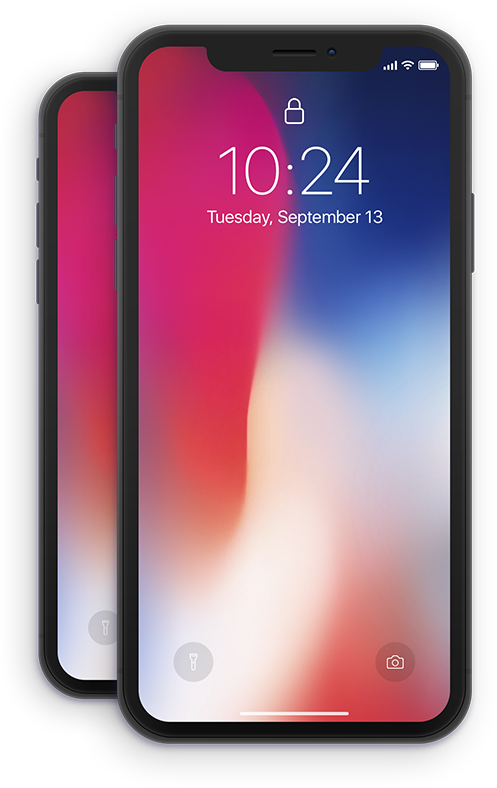
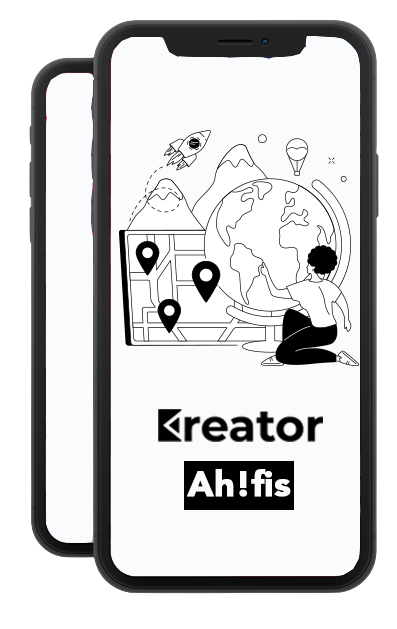
Photos&Content

diff --git a/index.html b/index.html
@@ -81,7 +81,7 @@
                     <div class="card features">
                         <div class="card-body">
                             <div class="media">
-                                <span class="ti-face-smile gradient-fill ti-3x mr-3"></span>
+                                <span class="ti-package gradient-fill ti-3x mr-3"></span>
                                 <div class="media-body">
                                     <h4 class="card-title">Services</h4>
                                     <p class="card-text">Create your services and share them directly to your prospects close deals in minutes. </p>
@@ -94,7 +94,7 @@
                     <div class="card features">
                         <div class="card-body">
                             <div class="media">
-                                <span class="ti-settings gradient-fill ti-3x mr-3"></span>
+                                <span class="ti-comments gradient-fill ti-3x mr-3"></span>
                                 <div class="media-body">
                                     <h4 class="card-title">Collaborations</h4>
                                     <p class="card-text">Collaborate with co-kreators to increase your service spectrum and build a brand legacy.</p>
@@ -168,16 +168,15 @@
             <div class="tab-content">
                 <div class="tab-pane fade show active" id="communication">
                     <div class="d-flex flex-column flex-lg-row">
-                        <img src="images/graphic.png" alt="graphic" class="img-fluid rounded align-self-start mr-lg-5 mb-5 mb-lg-0">
+                        <img src="images/ahfis_page4.png" alt="graphic" class="img-fluid rounded align-self-start mr-lg-5 mb-5 mb-lg-0">
                         <div>
 
-                            <h2>Communicate with ease</h2>
-                            <p class="lead">Uniquely underwhelm premium outsourcing with proactive leadership skills. </p>
-                            <p>Lorem ipsum dolor sit amet, consectetur adipiscing elit. Integer rutrum, urna eu pellentesque pretium, nisi nisi fermentum enim, et sagittis dolor nulla vel sapien. Vestibulum sit amet mattis ante. Ut placerat dui eu nulla
-                                congue tincidunt ac a nibh. Mauris accumsan pulvinar lorem placerat volutpat. Praesent quis facilisis elit. Sed condimentum neque quis ex porttitor,
+                            <h2>Own your Ah!fis</h2>
+                            <p class="lead">A new digital home for your freelance team.</p>
+                            <p>Quoting multiple freelancers, "An office is not required for freelancers, but a virtual office which can manage teams, contracts, deals is a must". We worked on this statement and took it to next level, Freelancers now can create thier own brand and they don't even require other brands to promote themselves. And we proudly call it Ah!fis, 
+                                
                             </p>
-                            <p> malesuada faucibus augue aliquet. Sed elit est, eleifend sed dapibus a, semper a eros. Vestibulum blandit vulputate pharetra. Phasellus lobortis leo a nisl euismod, eu faucibus justo sollicitudin. Mauris consectetur, tortor
-                                sed tempor malesuada, sem nunc porta augue, in dictum arcu tortor id turpis. Proin aliquet vulputate aliquam.
+                            <p>Now you can create your own Ah!fis and unlock the impossible. 
                             </p>
                         </div>
                     </div>
@@ -185,29 +184,26 @@
                 <div class="tab-pane fade" id="schedule">
                     <div class="d-flex flex-column flex-lg-row">
                         <div>
-                            <h2>Scheduling when you want</h2>
-                            <p class="lead">Uniquely underwhelm premium outsourcing with proactive leadership skills. </p>
-                            <p>Lorem ipsum dolor sit amet, consectetur adipiscing elit. Integer rutrum, urna eu pellentesque pretium, nisi nisi fermentum enim, et sagittis dolor nulla vel sapien. Vestibulum sit amet mattis ante. Ut placerat dui eu nulla
-                                congue tincidunt ac a nibh. Mauris accumsan pulvinar lorem placerat volutpat. Praesent quis facilisis elit. Sed condimentum neque quis ex porttitor,
+                            <h2>Collaboration Management</h2>
+                            <p class="lead">Collaboration that matters the most.</p>
+                            <p>A project comes with it's own weight, and agencies are far ahead to grab away this heavy weight and heavy reward project, We thought why agencies should have all the fun and developed a platform to collaborate with your peers, Not just it, you can even collaborate with other domain based freelancers and create professional packages for your clients.
                             </p>
-                            <p> malesuada faucibus augue aliquet. Sed elit est, eleifend sed dapibus a, semper a eros. Vestibulum blandit vulputate pharetra. Phasellus lobortis leo a nisl euismod, eu faucibus justo sollicitudin. Mauris consectetur, tortor
-                                sed tempor malesuada, sem nunc porta augue, in dictum arcu tortor id turpis. Proin aliquet vulputate aliquam.
+                            <p> Now accept heavy projects and ask Kreator to share the load.
                             </p>
                         </div>
-                        <img src="images/graphic.png" alt="graphic" class="img-fluid rounded align-self-start mr-lg-5 mb-5 mb-lg-0">
+                        <img src="images/collab_page4.png" alt="graphic" class="img-fluid rounded align-self-start mr-lg-5 mb-5 mb-lg-0">
                     </div>
                 </div>
                 <div class="tab-pane fade" id="messages">
                     <div class="d-flex flex-column flex-lg-row">
-                        <img src="images/graphic.png" alt="graphic" class="img-fluid rounded align-self-start mr-lg-5 mb-5 mb-lg-0">
+                        <img src="images/deals_page4.png" alt="graphic" class="img-fluid rounded align-self-start mr-lg-5 mb-5 mb-lg-0">
                         <div>
-                            <h2>Realtime Messaging service</h2>
-                            <p class="lead">Uniquely underwhelm premium outsourcing with proactive leadership skills. </p>
-                            <p>Lorem ipsum dolor sit amet, consectetur adipiscing elit. Integer rutrum, urna eu pellentesque pretium, nisi nisi fermentum enim, et sagittis dolor nulla vel sapien. Vestibulum sit amet mattis ante. Ut placerat dui eu nulla
-                                congue tincidunt ac a nibh. Mauris accumsan pulvinar lorem placerat volutpat. Praesent quis facilisis elit. Sed condimentum neque quis ex porttitor,
+                            <h2>Deal Flows</h2>
+                            <p class="lead">First of it's kind deal flows specifically designed for freelancers.</p>
+                            <p>Deal flow for freelancers is one of the most complex funnels we ever faced, We ourselves being a freelancers wanted something to make the deal flow more smoother with better clarity provided to clients far before making the payment. We manually verify the deals and our AI assistan brings the deal on to the table for you to have an eagle's view.
+                                
                             </p>
-                            <p> malesuada faucibus augue aliquet. Sed elit est, eleifend sed dapibus a, semper a eros. Vestibulum blandit vulputate pharetra. Phasellus lobortis leo a nisl euismod, eu faucibus justo sollicitudin. Mauris consectetur, tortor
-                                sed tempor malesuada, sem nunc porta augue, in dictum arcu tortor id turpis. Proin aliquet vulputate aliquam.
+                            <p> A well suited deal is much better than a DEAL.
                             </p>
                         </div>
                     </div>
@@ -215,16 +211,15 @@
                 <div class="tab-pane fade" id="livechat">
                     <div class="d-flex flex-column flex-lg-row">
                         <div>
-                            <h2>Live chat when you needed</h2>
-                            <p class="lead">Uniquely underwhelm premium outsourcing with proactive leadership skills. </p>
-                            <p>Lorem ipsum dolor sit amet, consectetur adipiscing elit. Integer rutrum, urna eu pellentesque pretium, nisi nisi fermentum enim, et sagittis dolor nulla vel sapien. Vestibulum sit amet mattis ante. Ut placerat dui eu nulla
-                                congue tincidunt ac a nibh. Mauris accumsan pulvinar lorem placerat volutpat. Praesent quis facilisis elit. Sed condimentum neque quis ex porttitor,
+                            <h2>Payment Protection</h2>
+                            <p class="lead"> Now never worry about the payments.</p>
+                            <p>We provide a payment protection where your client always pays and we also handle a double account for every project your accept. With this both your client and you will never worry on the payment and only focus the success of the project. Now never say freelance has risk of payment. Just a step towards a real freelancing platform.
+                                
                             </p>
-                            <p> malesuada faucibus augue aliquet. Sed elit est, eleifend sed dapibus a, semper a eros. Vestibulum blandit vulputate pharetra. Phasellus lobortis leo a nisl euismod, eu faucibus justo sollicitudin. Mauris consectetur, tortor
-                                sed tempor malesuada, sem nunc porta augue, in dictum arcu tortor id turpis. Proin aliquet vulputate aliquam.
+                            <p> Payment protection specially designed for freelancers.
                             </p>
                         </div>
-                        <img src="images/graphic.png" alt="graphic" class="img-fluid rounded align-self-start mr-lg-5 mb-5 mb-lg-0">
+                        <img src="images/payments_page4.png" alt="graphic" class="img-fluid rounded align-self-start mr-lg-5 mb-5 mb-lg-0">
                     </div>
                 </div>
             </div>
@@ -286,7 +281,7 @@
                     </ul>
                 </div>
                 <div class="col-md-4">
-                    <img src="images/iphonex.png" alt="iphone" class="img-fluid">
+                    <img src="images/ah!fis.png" alt="iphone" class="img-fluid">
                 </div>
 
             </div>
@@ -331,7 +326,7 @@
     <!-- // end .section -->
 
 
-    <div class="section light-bg" id="gallery">
+   <!--Naresh <div class="section light-bg" id="gallery">
         <div class="container">
             <div class="section-title">
                 <small>GALLERY</small>
@@ -354,7 +349,7 @@
 
 
 
-    <div class="section" id="pricing">
+   <!--Naresh <div class="section" id="pricing">
         <div class="container">
             <div class="section-title">
                 <small>PRICING</small>
@@ -414,13 +409,13 @@
             <!-- // end .pricing -->
 
 
-        </div>
+        <!--Naresh   </div>
 
     </div>
     <!-- // end .section -->
 
 
-    <div class="section pt-0">
+ <!--Naresh   <div class="section pt-0">
         <div class="container">
             <div class="section-title">
                 <small>FAQ</small>
@@ -445,7 +440,7 @@
             </div>
         </div>
 
-    </div>
+    </div>-->
     <!-- // end .section -->
 
 
@@ -455,8 +450,8 @@
             <div class="call-to-action">
 
                 <div class="box-icon"><span class="ti-mobile gradient-fill ti-3x"></span></div>
-                <h2>Download Anywhere</h2>
-                <p class="tagline">Available for all major mobile and desktop platforms. Rapidiously visualize optimal ROI rather than enterprise-wide methods of empowerment. </p>
+                <h2>Download Anywhere - Coming Soon</h2>
+                <p class="tagline">Coming soon for all web and mobile platforms </p>
                 <div class="my-4">
 
                     <a href="#" class="btn btn-light"><img src="images/appleicon.png" alt="icon"> App Store</a>
